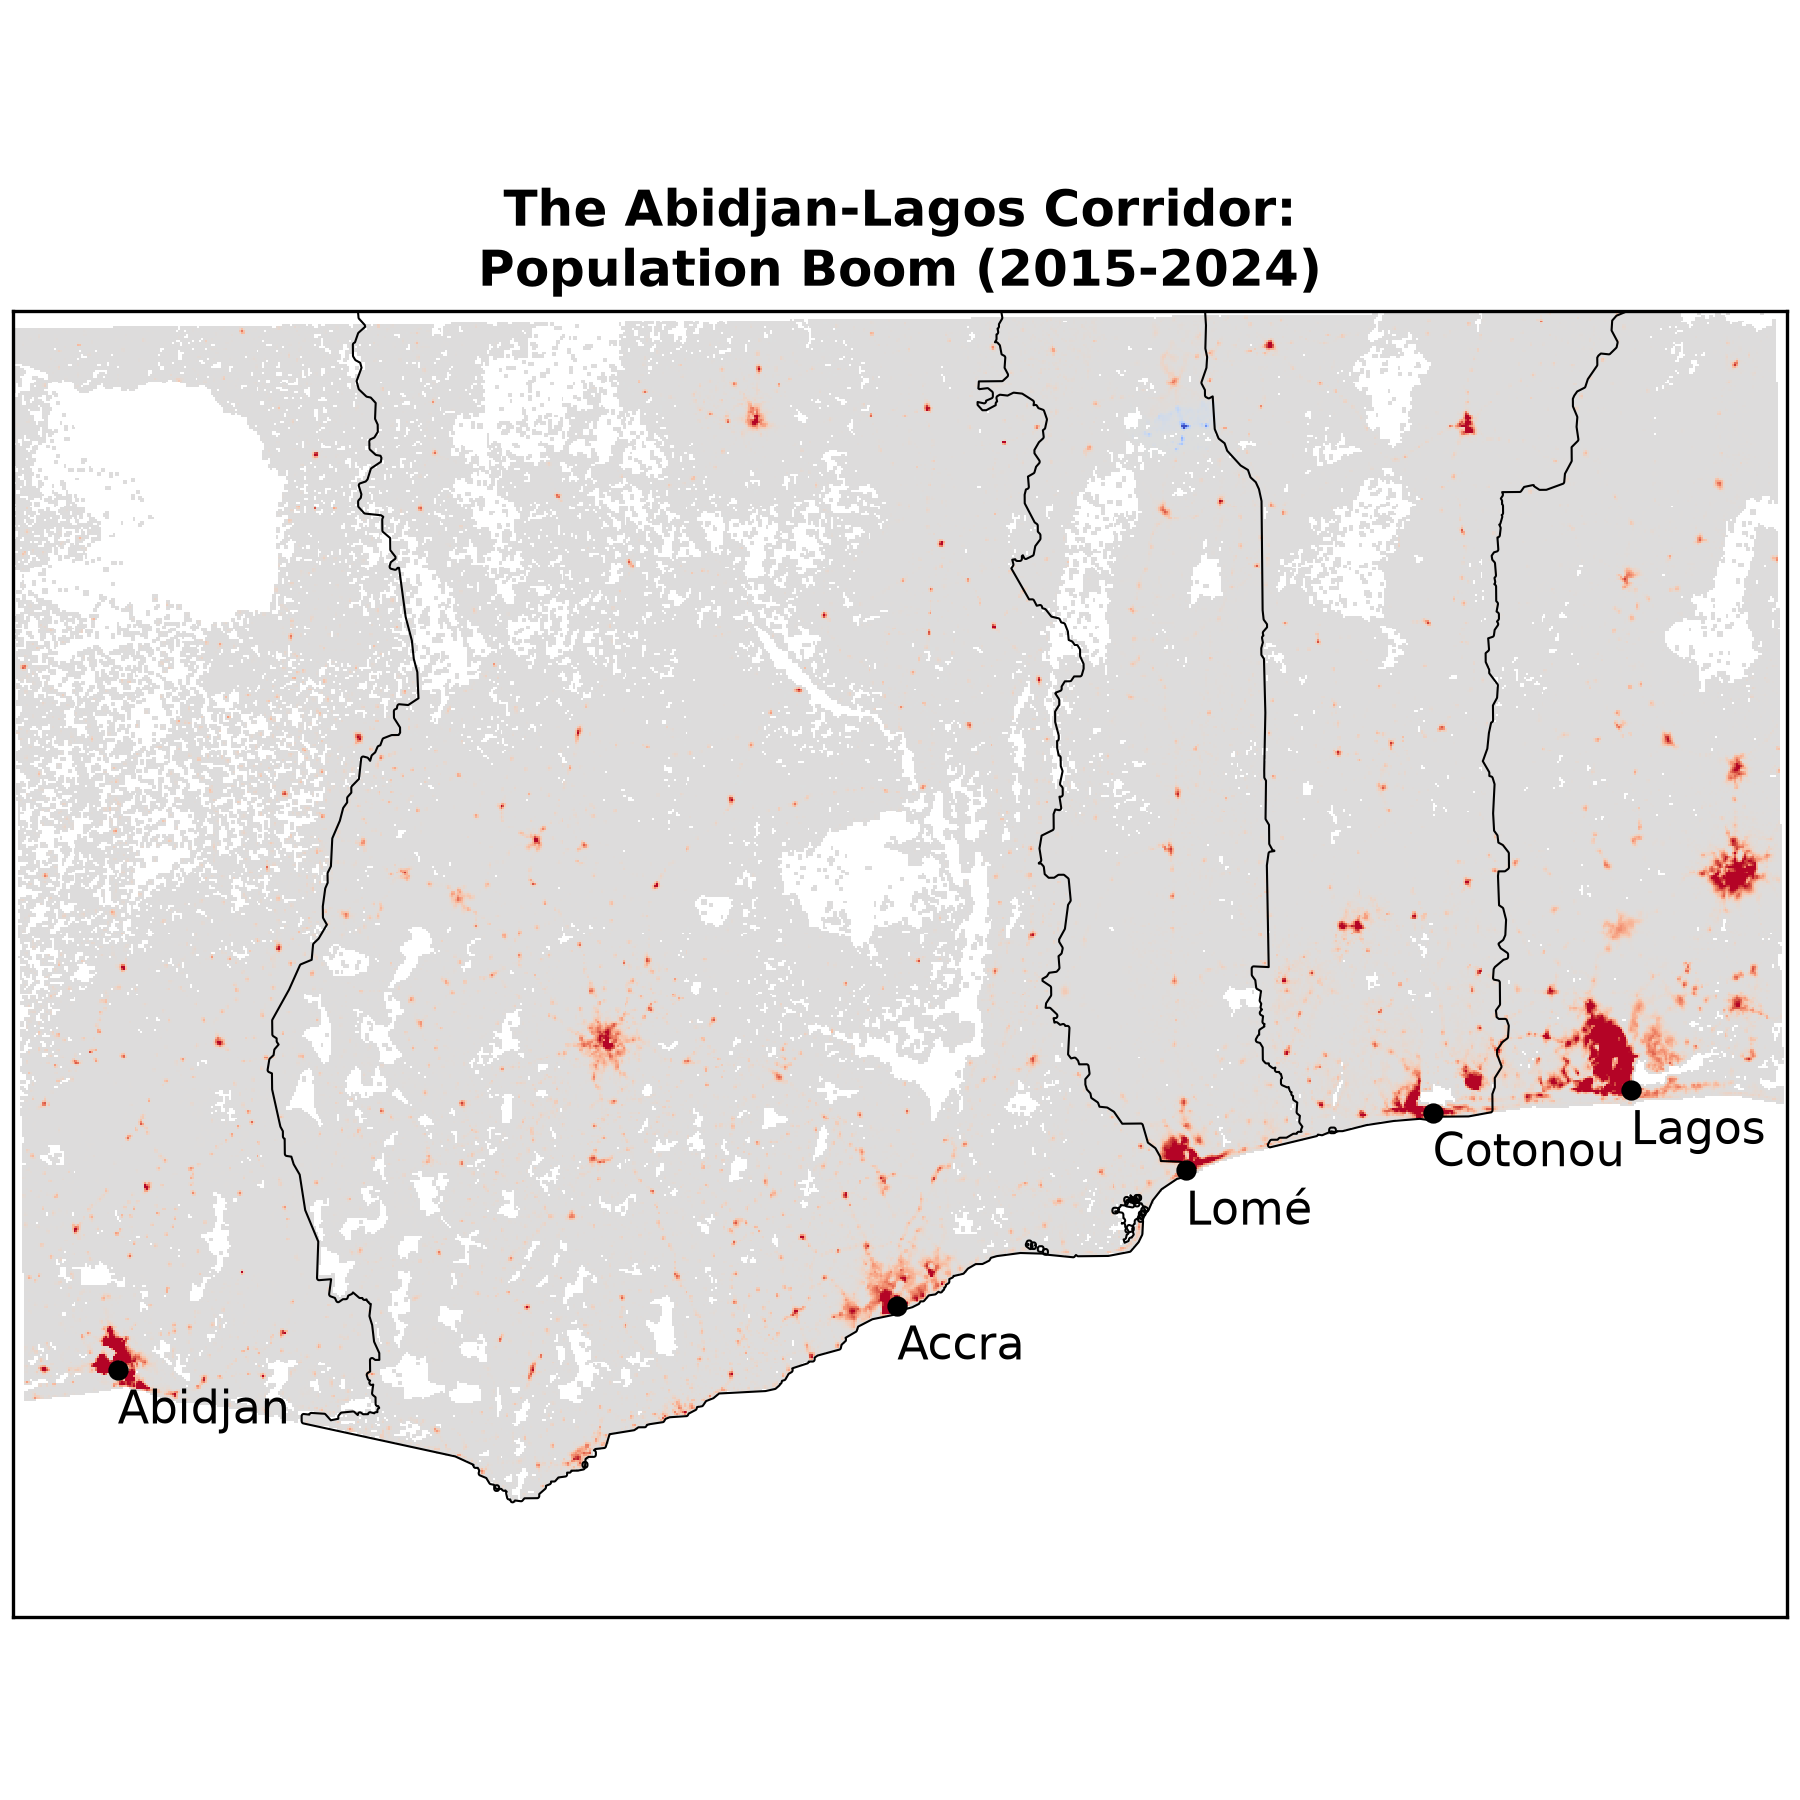
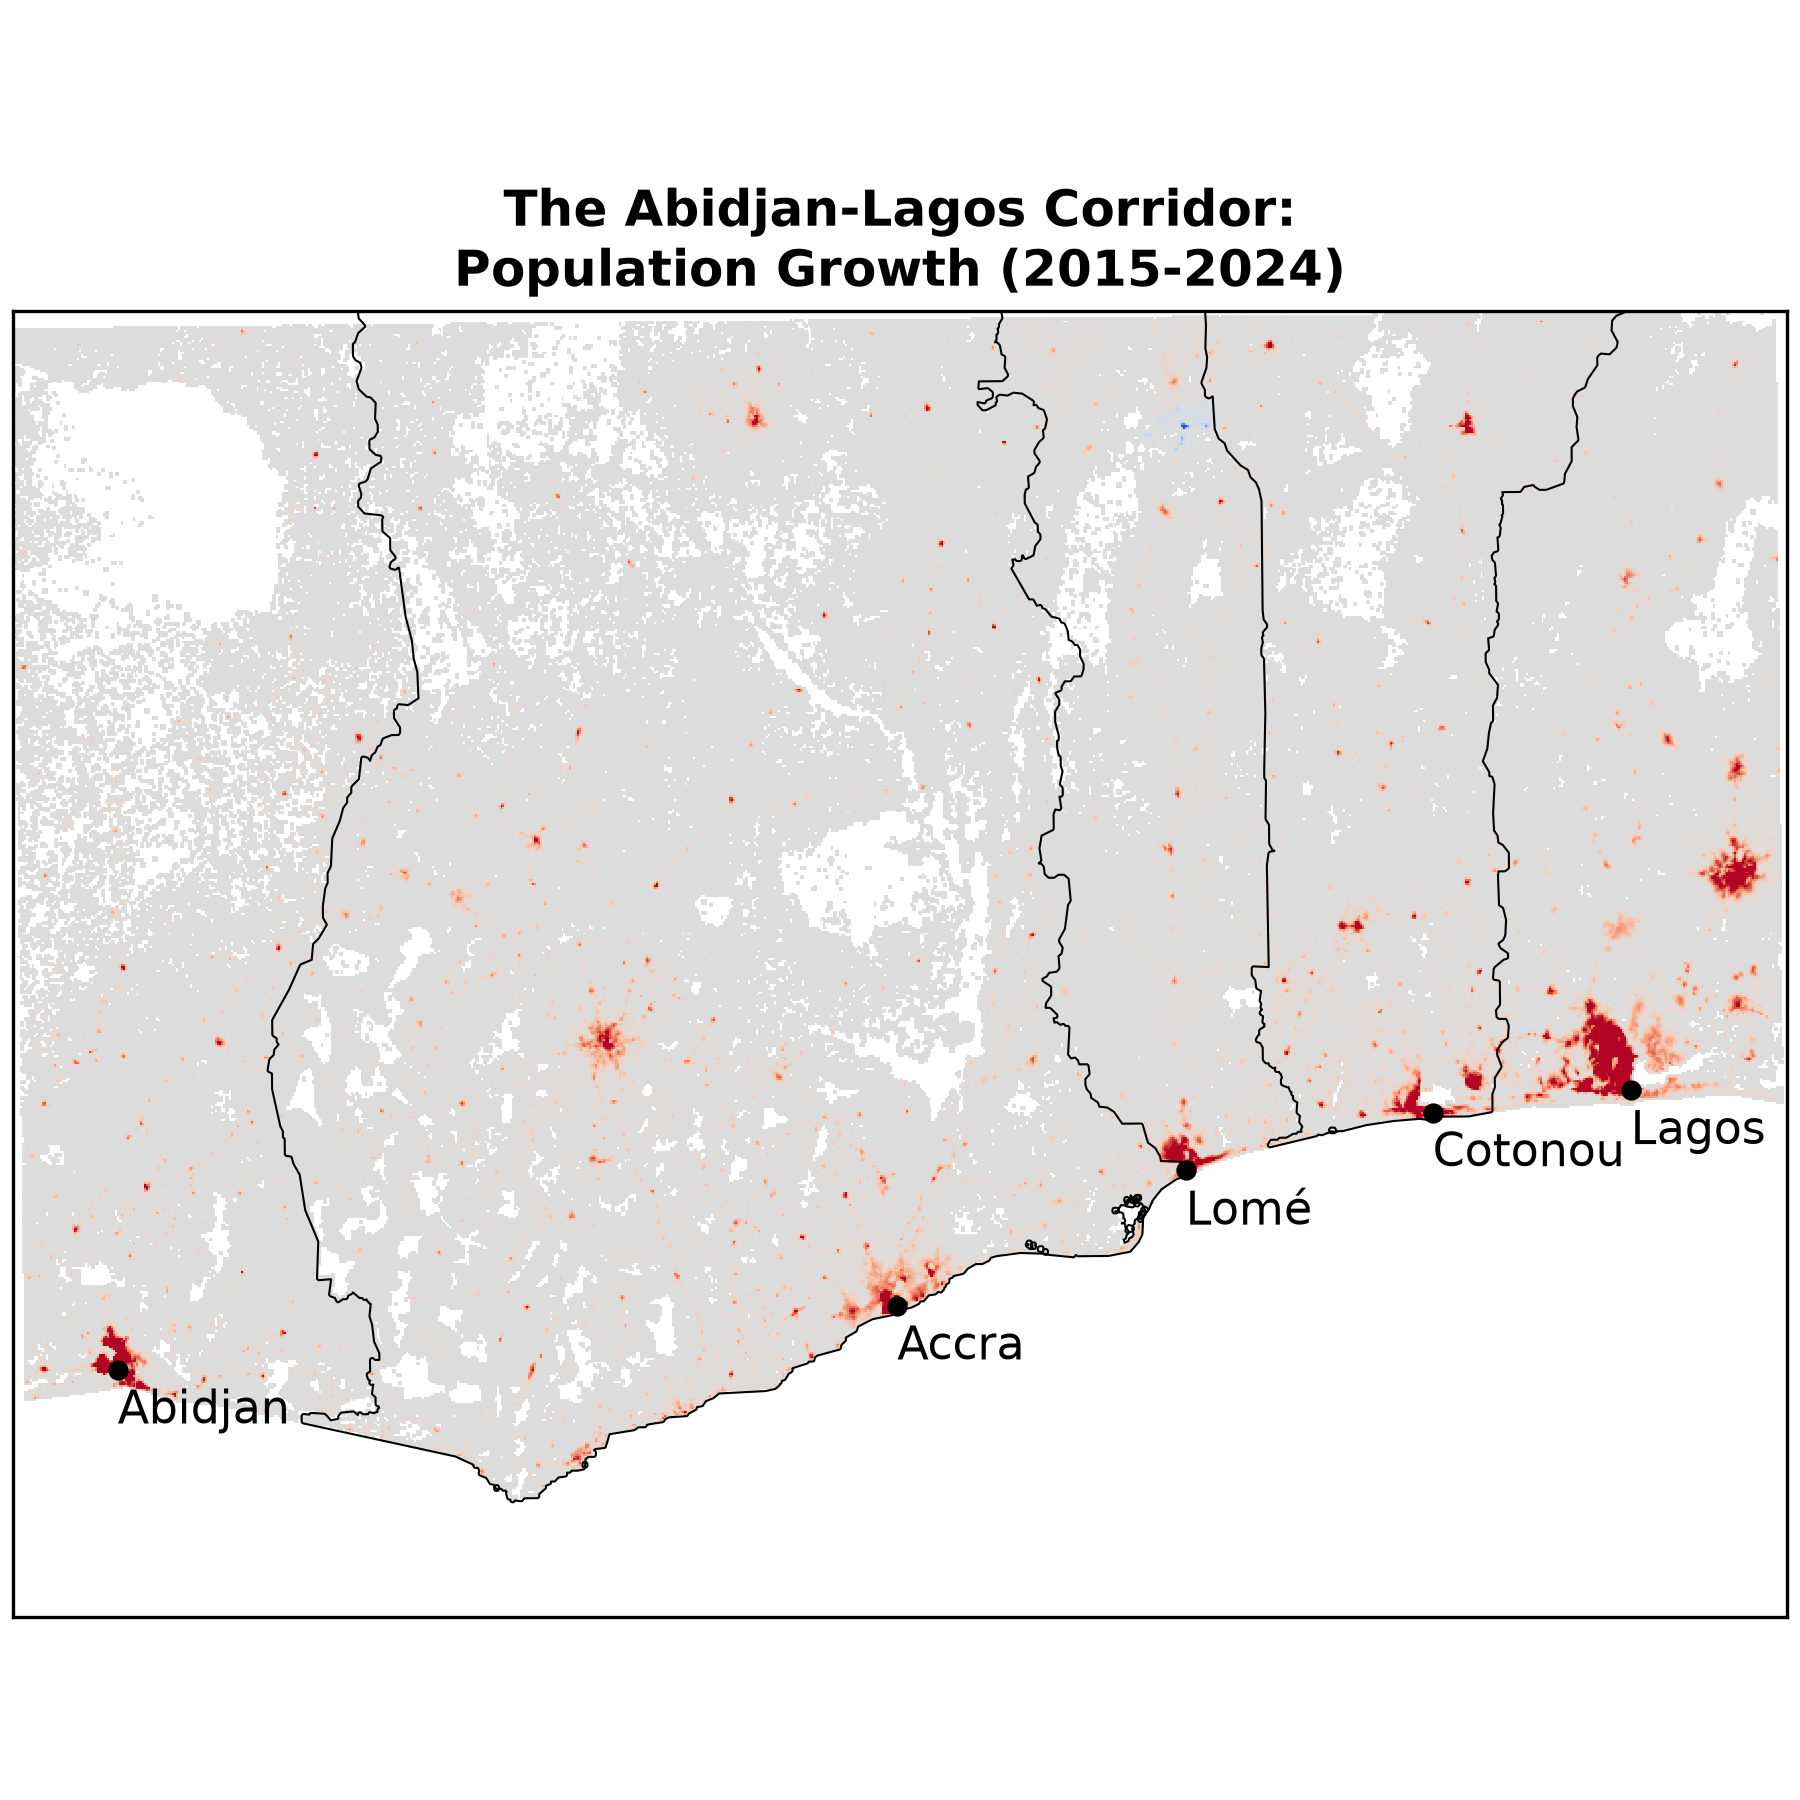
minor: Title the West Africa map "Population Growth" instead of "Population Boom"
"Boom" suggests a sudden surge, but annual growth slowed in Benin, Côte d'Ivoire, Ghana and Nigeria from 2015 to 2024.

Changed region(s): [[0.2489, 0.1244, 0.7467, 0.1867]]

diff --git a/examples/quickstart/04_west_africa_growth.py b/examples/quickstart/04_west_africa_growth.py
@@ -50,7 +50,7 @@ pop_change.plot(
     vmax=2_000, add_colorbar=False,
 )
 clean_axes(
-    title="The Abidjan-Lagos Corridor:\nPopulation Boom (2015-2024)",
+    title="The Abidjan-Lagos Corridor:\nPopulation Growth (2015-2024)",
     fontweight='bold'
 )
 
